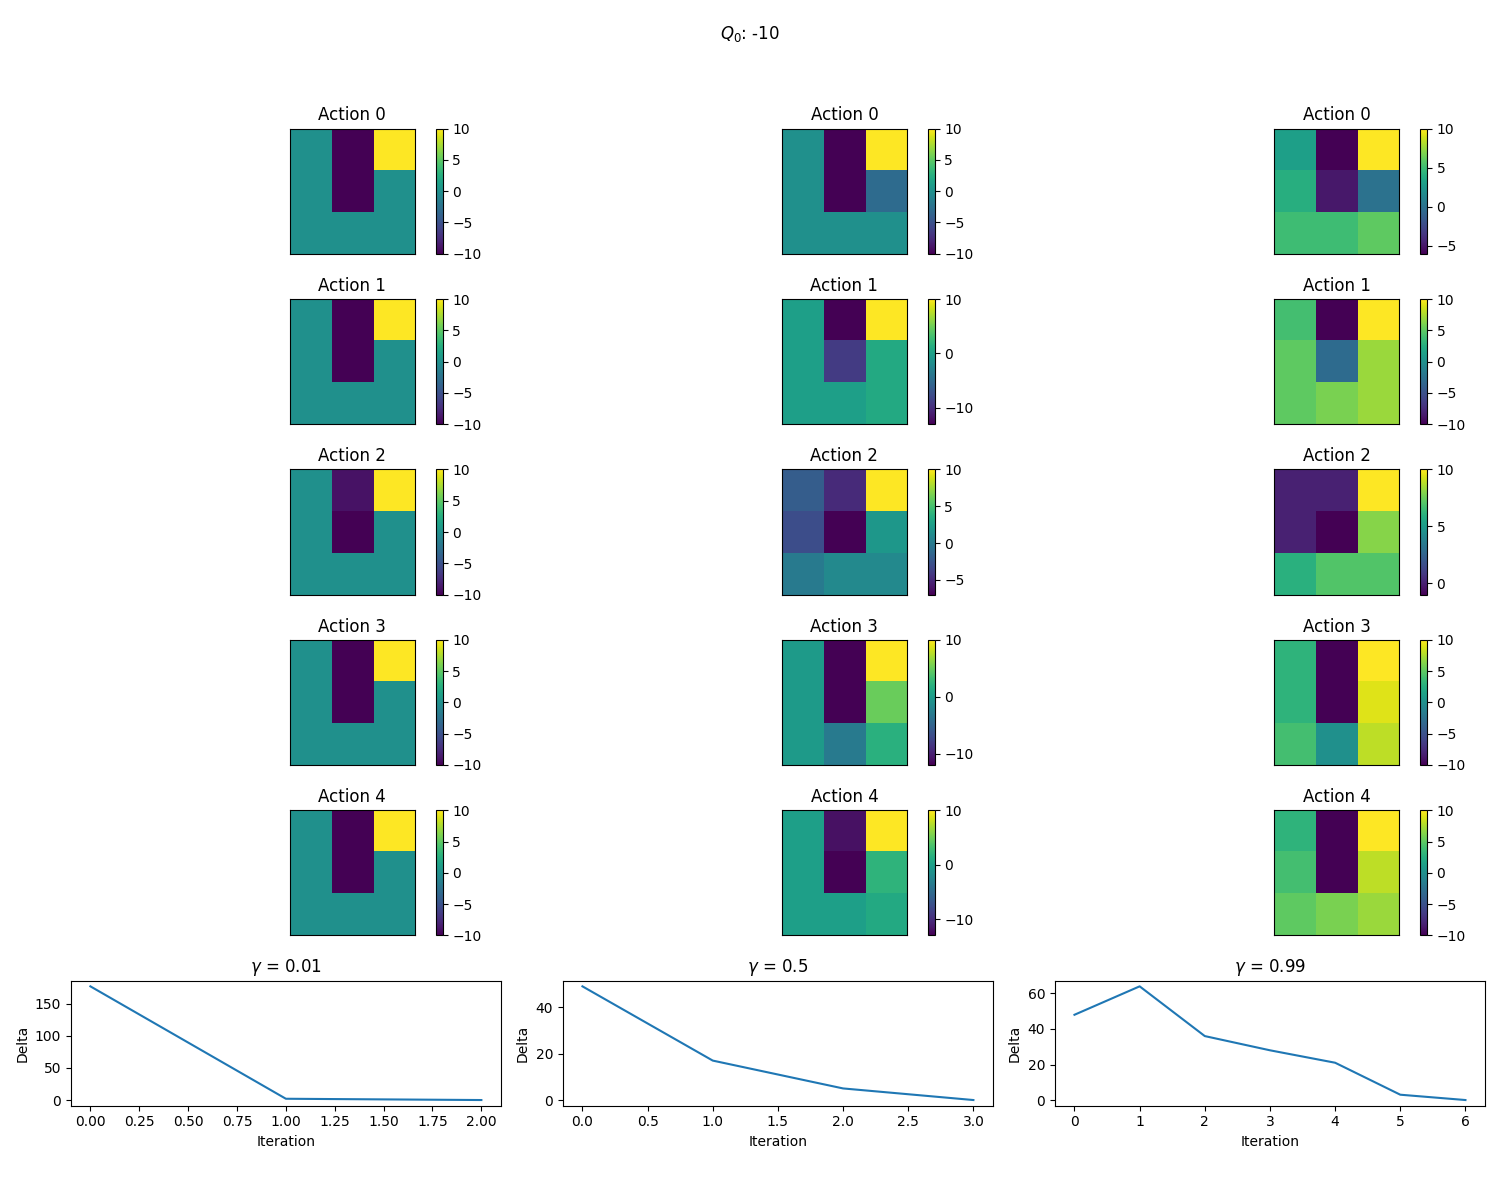
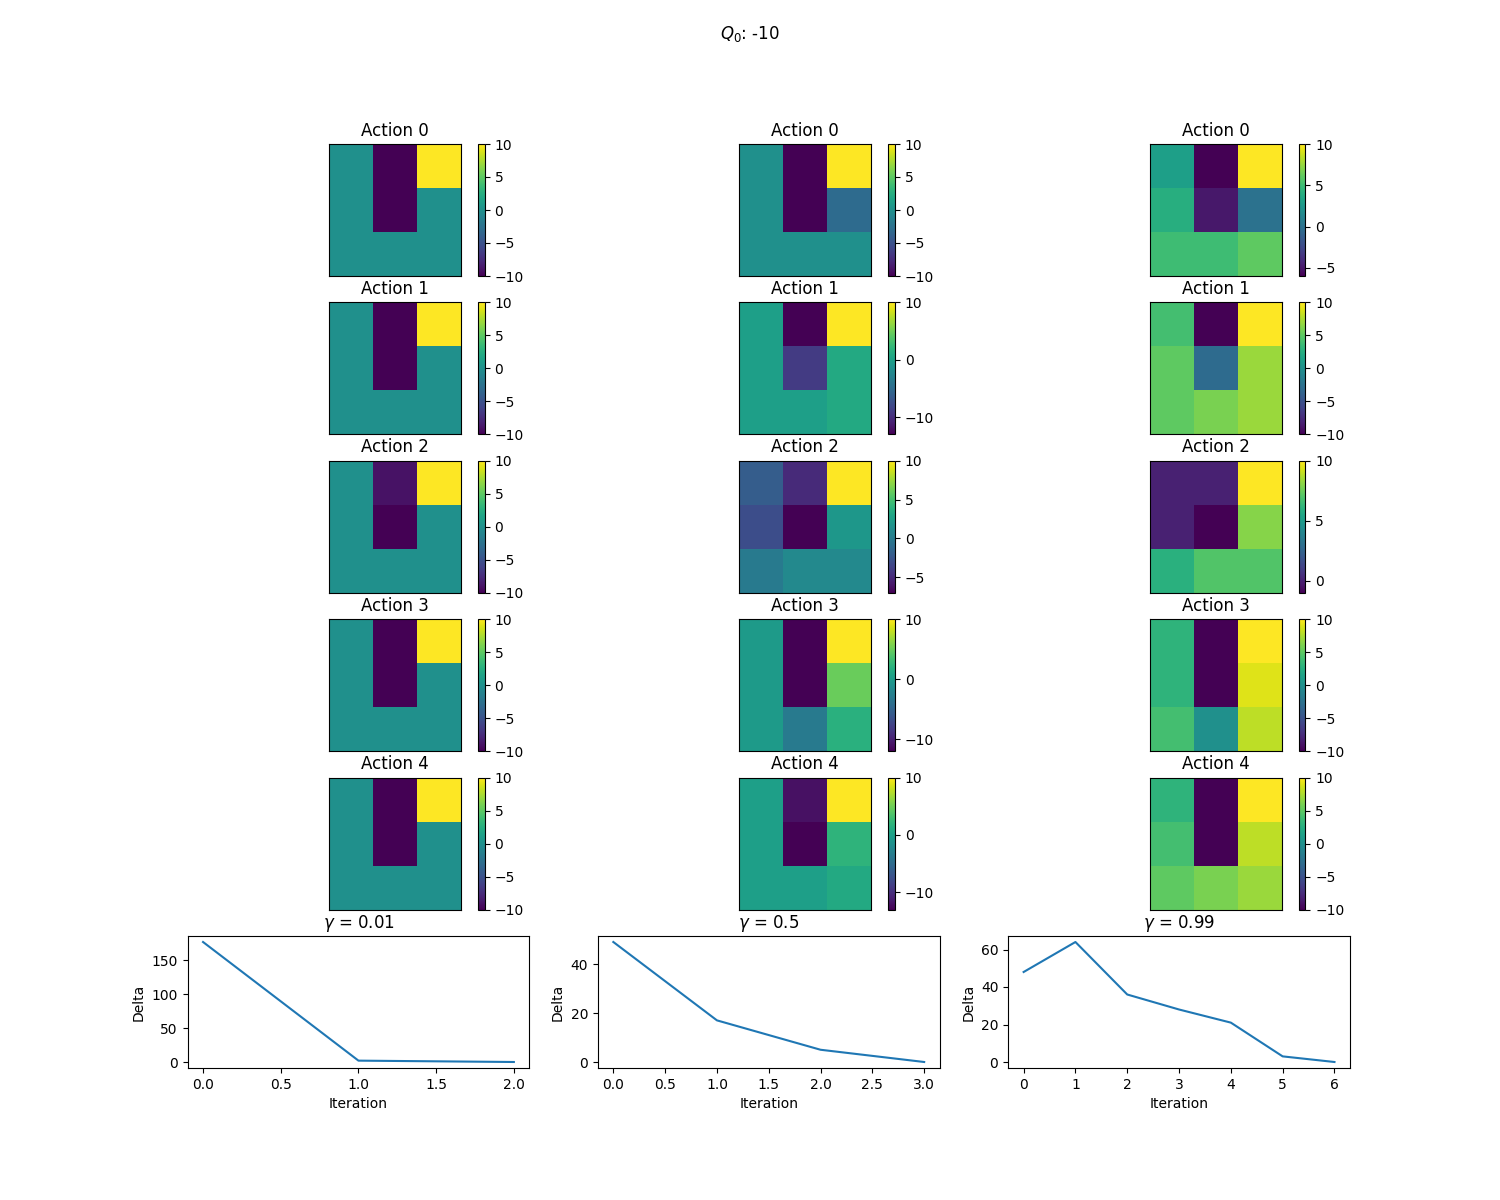
updates in plotting

diff --git a/gym_gridworlds/DP.py b/gym_gridworlds/DP.py
@@ -126,33 +126,6 @@ def plot_bellman_error(delta_history, title, ax):
     ax.set_xlabel("Iteration")
     ax.set_ylabel("Bellman Error")
 
-# fig, axs = plt.subplots(3, 3, figsize=(15, 15))
-# fig2, axs2 = plt.subplots(3, 3, figsize=(15, 15))
-
-# for i, gamma in enumerate(gammas):
-#     for j, init_val in enumerate(initial_values):
-#         data = results[gamma][init_val]
-#         plot_heatmap(data['V_pi'], f"V_pi (gamma={gamma}, init_val={init_val})", axs[i, j])
-#         plot_bellman_error(data['delta_history_v'], f"V_pi Bellman Error (gamma={gamma}, init_val={init_val})", axs2[i, j])
-
-# plt.tight_layout()
-# plt.show()
-
-# # Q-function heatmaps for each action
-# fig, axs = plt.subplots(3, 5, figsize=(20, 12))
-# actions = ["left", "down", "right", "up", "stay"]
-# data = results[0.99][0]
-# plot_heatmap(data['Q_pi'][:, 1], f"Q_pi Action={actions[1]} (gamma={0.99}, init_val={0})", axs[1, 1])
-# # for i, gamma in enumerate(gammas):
-# #     for j, init_val in enumerate(initial_values):
-# #         data = results[gamma][init_val]
-# #         for a in range(n_actions):
-# #             # plot_bellman_error(data['delta_history_q'], f"Q_pi Bellman Error (gamma={gamma}, init_val={init_val})", axs2[i, j])
-# #             plot_heatmap(data['Q_pi'][:, a], f"Q_pi Action={actions[a]} (gamma={gamma}, init_val={init_val})", axs[i, a])
-
-# # plt.tight_layout()
-# plt.show()
-
 gammas = [0.01, 0.5, 0.99]
 for init_value in [-10, 0, 10]:
     fig, axs = plt.subplots(2, len(gammas))
@@ -175,29 +148,21 @@ for init_value in [-10, 0, 10]:
         axs[1][i].set_xlabel('Iteration')
         axs[1][i].set_ylabel('Delta')
 
-    plt.tight_layout(rect=[0, 0.03, 1, 0.95])
+    # plt.tight_layout(rect=[0, 0.03, 1, 0.95])
     
-    # Save the figure
     filename = f'plots_v0_{init_value}.png'
     plt.savefig(filename)
-    plt.close(fig)  # Close the figure to free memory
+    plt.close(fig)
 
     fig, axs = plt.subplots(n_actions + 1, len(gammas), figsize=(15, 2 * (n_actions + 1)))
     fig.suptitle(f"$Q_0$: {init_value}")
 
     for i, gamma in enumerate(gammas):
-        # Compute Q-values and convergence history
         Q, delta_history = evaluate_Q_policy(Q_initial, policy, R, P, terminal_state, gamma, theta)
-        
-        # Reshape Q-values into a 2D grid for each action
         # Plot Q-values for each action
         for a in range(n_actions):
             # Reshape Q-values into a 2D grid
             Q_grid = Q[:, a].reshape((grid_size, grid_size))
-            print(f"axs shape: {axs.shape}")
-            print(f"Q shape: {Q.shape}")
-            print(f"Q_grid shape: {Q_grid.shape}")
-            print(f"axs shape: {axs.shape}")
             im = axs[a][i].imshow(Q_grid, cmap='viridis', interpolation='none')
             axs[a][i].set_title(f'Action {a}')
             axs[a][i].set_xticks([])
@@ -210,11 +175,8 @@ for init_value in [-10, 0, 10]:
         axs[-1, i].set_xlabel('Iteration')
         axs[-1, i].set_ylabel('Delta')
 
-    plt.tight_layout(rect=[0, 0.03, 1, 0.95])
-    
     # plt.tight_layout(rect=[0, 0.03, 1, 0.95])
-    
-    # Save the figure
+
     filename = f'plots_q0_{init_value}.png'
     plt.savefig(filename)
-    plt.close(fig)  # Close the figure to free memory
+    plt.close(fig)
